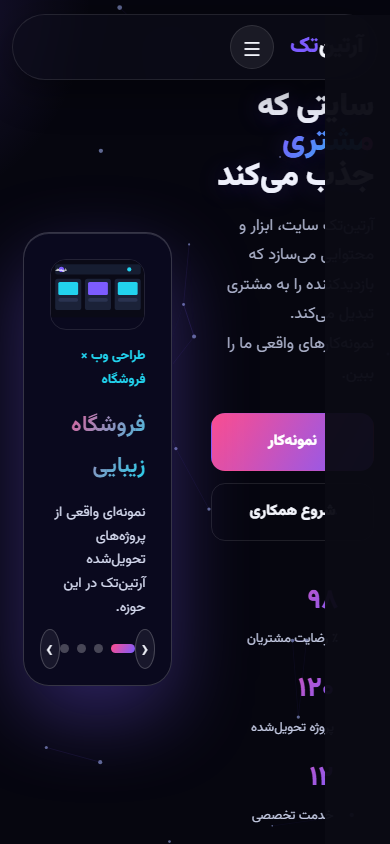
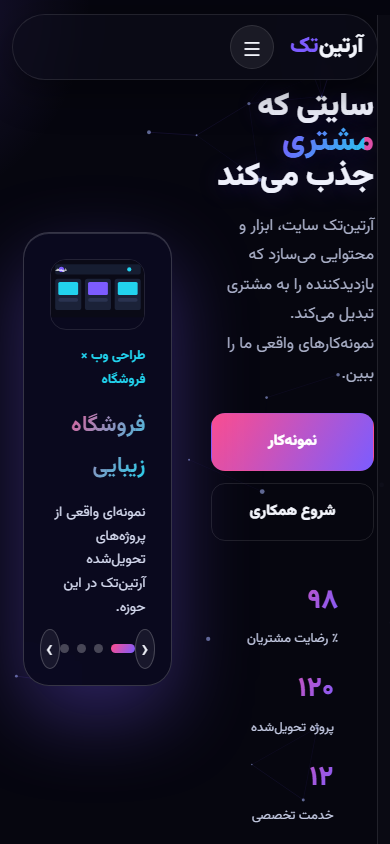
v36: mobile nav drawer uses right:-100% instead of transform (RTL-safe, guaranteed closed off-screen)

diff --git a/styles.css b/styles.css
@@ -188,8 +188,8 @@ a{color:inherit;text-decoration:none}
   .wrap{padding:0 16px}
   .menu-btn{display:block}
   .btn-nav{display:none}
-  .nav-links{position:fixed;top:0;right:0;height:100vh;width:80vw;max-width:320px;background:rgba(10,10,20,.96);backdrop-filter:blur(24px);flex-direction:column;padding:90px 24px;gap:10px;transform:translateX(100%);transition:transform .35s;z-index:65;border-left:1px solid var(--border)}
-  .nav-links.open{transform:translateX(0)}
+  .nav-links{position:fixed;top:0;right:0;height:100vh;width:80vw;max-width:320px;background:rgba(10,10,20,.96);backdrop-filter:blur(24px);flex-direction:column;padding:90px 24px;gap:10px;right:-100%;transition:right .35s;z-index:65;border-left:1px solid var(--border)}
+  .nav-links.open{right:0}
   .nav-links a{padding:14px;font-size:17px;width:100%;border-radius:12px}
   .services,.steps,.training,.store{grid-template-columns:1fr}
   .about{grid-template-columns:1fr}

diff --git a/index.html b/index.html
@@ -9,8 +9,8 @@
   <link rel="preconnect" href="https://fonts.googleapis.com" />
   <link rel="preconnect" href="https://fonts.gstatic.com" crossorigin />
   <link href="https://fonts.googleapis.com/css2?family=Vazirmatn:wght@400;700;900&display=swap" rel="stylesheet" />
-  <link rel="stylesheet" href="styles.css?v=35" />
-  <script src="main.js?v=35" defer></script>
+  <link rel="stylesheet" href="styles.css?v=36" />
+  <script src="main.js?v=36" defer></script>
 </head>
 <body>
   <canvas id="bg"></canvas>
